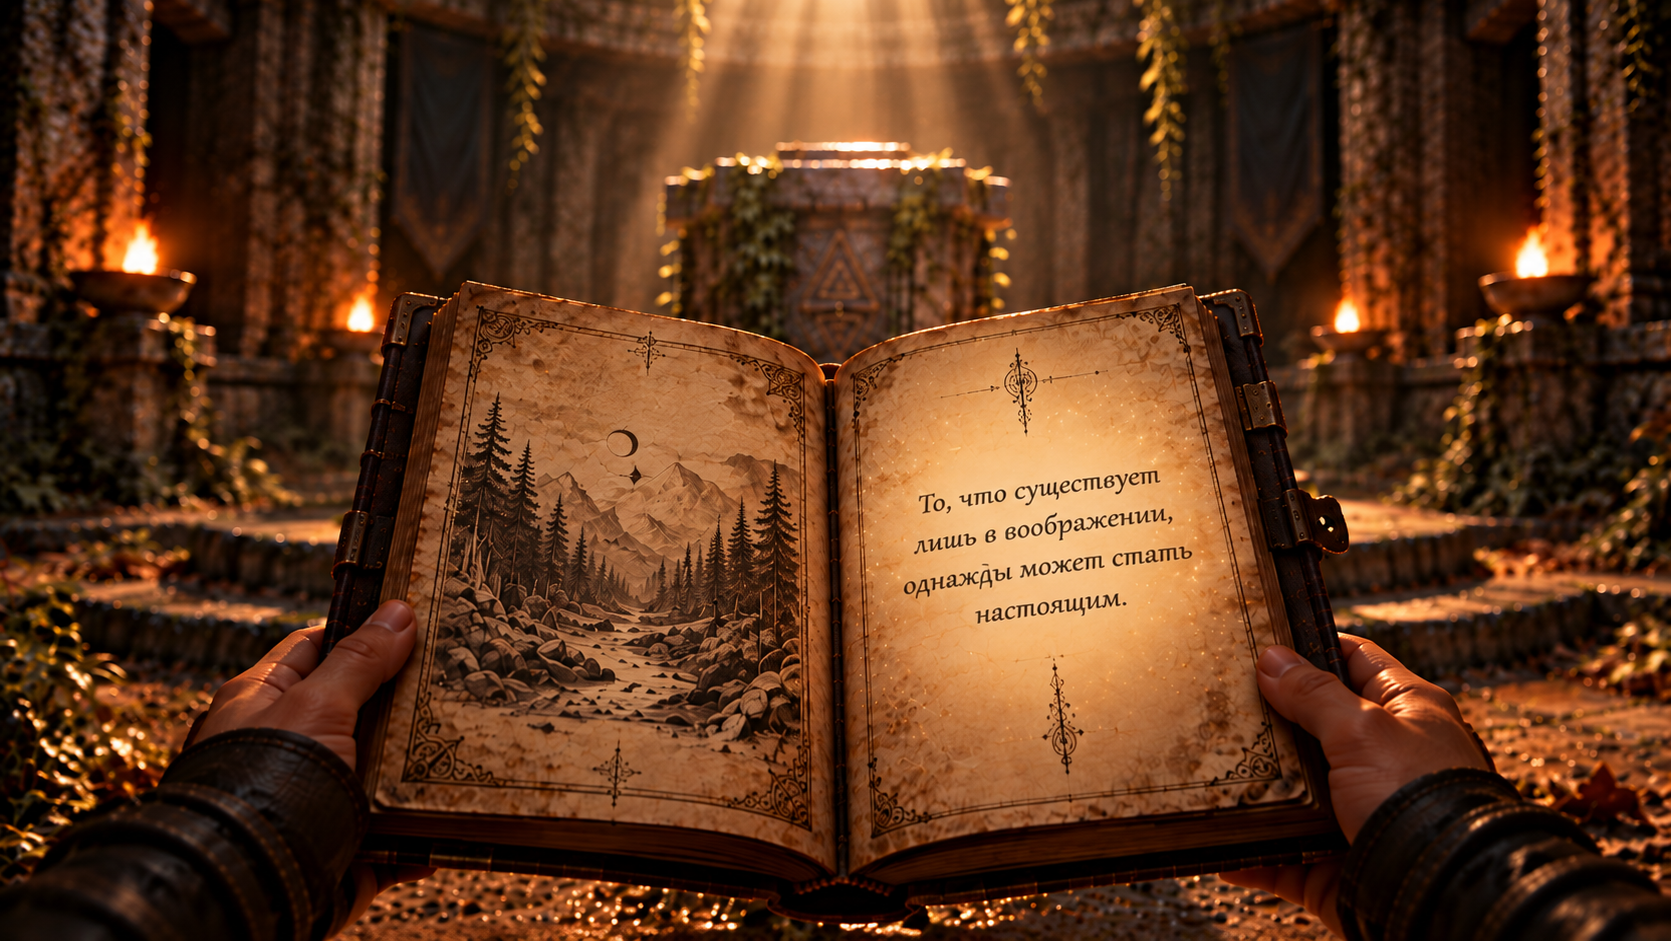
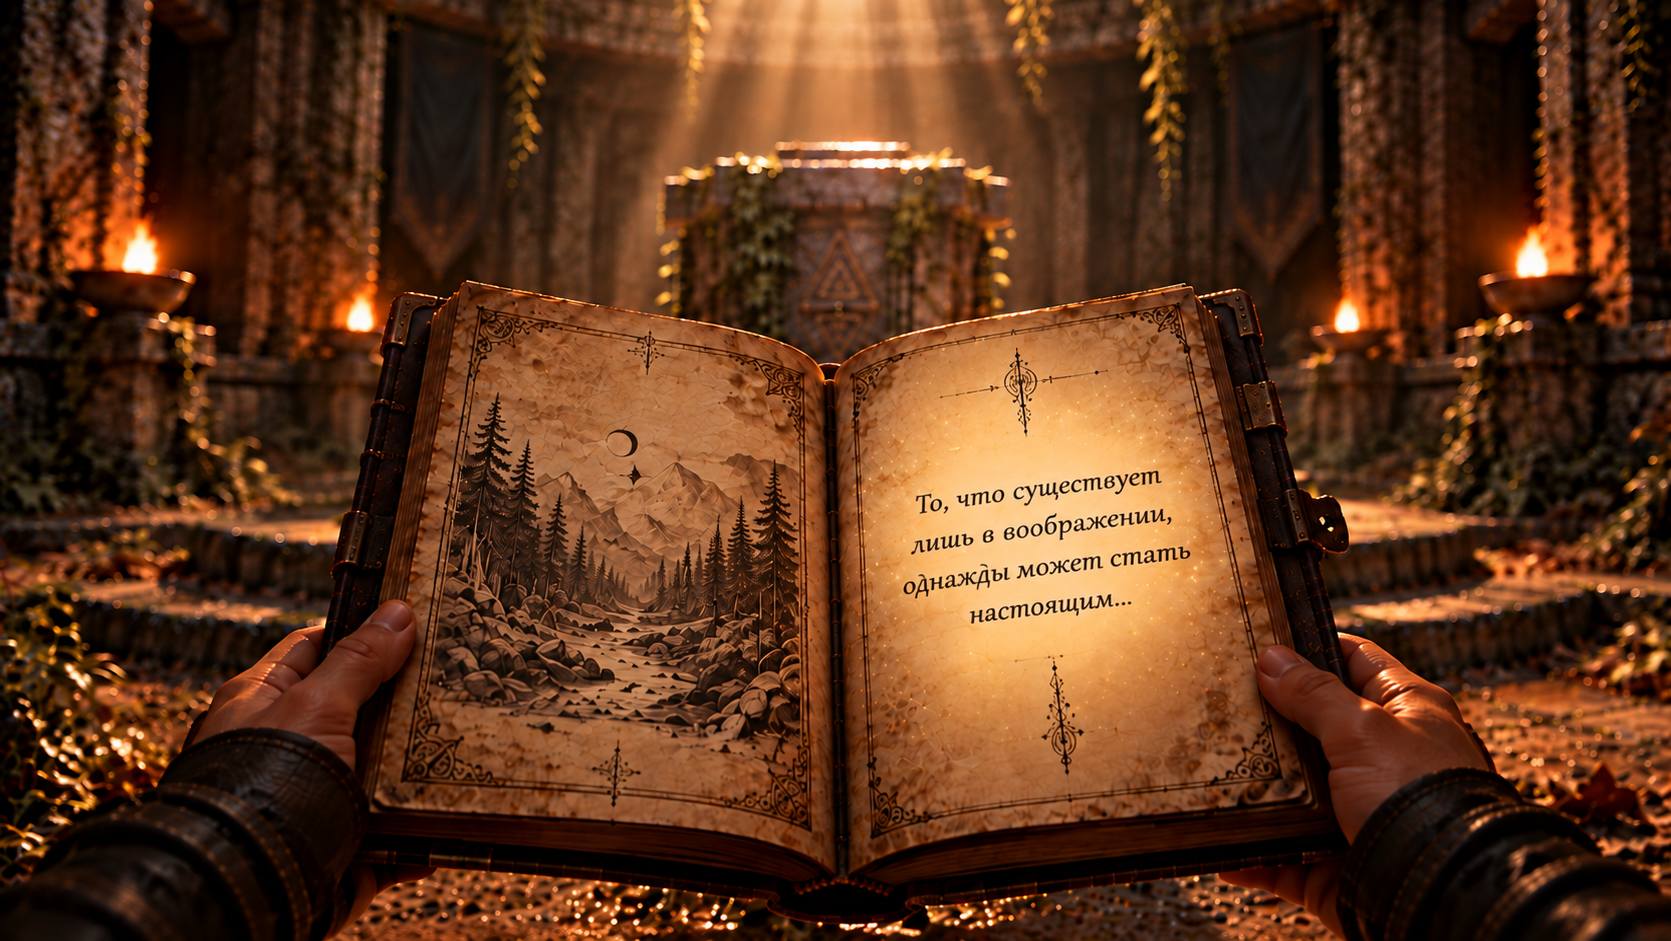
feat(final): fix scene flow

diff --git a/src/data/story/final.ts b/src/data/story/final.ts
@@ -171,24 +171,24 @@ export const finalChapter: ChapterData = {
       audio: audio.dragon,
       nextScene: "final-battle-3",
     },
-
     {
       id: "final-battle-3",
-      background: images.owlbearFire,
+      background: images.bookInHands,
       content: {
         type: "text",
-        text: "И ты вспоминаешь строку из книги:\n\nТо, что когда-то существовало лишь в воображении, однажды может стать настоящим...",
+        text: "Вдруг в твоей сумке что-то начинает светиться.",
       },
+      specialEffects: ["glow"],
       audio: audio.battleWithDragon,
       nextScene: "final-battle-4",
     },
 
     {
       id: "final-battle-4",
-      background: images.owlbearFire,
+      background: images.bookInHands,
       content: {
         type: "text",
-        text: "...и ожить в твоих руках.",
+        text: "Ты достаёшь книгу.\n\nОна сама раскрывается на той самой странице.",
       },
       audio: audio.battleWithDragon,
       nextScene: "final-battle-5",
@@ -196,10 +196,10 @@ export const finalChapter: ChapterData = {
 
     {
       id: "final-battle-5",
-      background: images.owlbearFire,
+      background: images.bookText,
       content: {
         type: "text",
-        text: "И ты понимаешь.\n\nВсё необходимое у тебя уже есть.",
+        text: "Там, где раньше фраза обрывалась, появились новые слова.",
       },
       audio: audio.battleWithDragon,
       nextScene: "final-battle-6",
@@ -207,27 +207,51 @@ export const finalChapter: ChapterData = {
 
     {
       id: "final-battle-6",
+      background: images.bookText,
+      content: {
+        type: "text",
+        text: "",
+      },
+      showBackgroundOnly: true,
+      autoTransitionToNextScene: true,
+      autoTransitionDelay: 5000,
+      audio: audio.battleWithDragon,
+      nextScene: "final-battle-7",
+    },
+    {
+      id: "final-battle-7",
+      background: images.owlbearFire,
+      content: {
+        type: "text",
+        text: "И ты понимаешь.\n\nВсё необходимое у тебя уже есть.",
+      },
+      audio: audio.battleWithDragon,
+      nextScene: "final-battle-8",
+    },
+
+    {
+      id: "final-battle-8",
       background: images.deviceAssembly,
       content: {
         type: "text",
         text: "Ты открываешь коробку.\n\nЛатунные пластины. Шестерни. Винты.\n\nВсе эти детали должны сложиться в одно целое.",
       },
       audio: audio.battleWithDragon,
-      nextScene: "final-battle-7",
+      nextScene: "final-battle-9",
     },
 
     {
-      id: "final-battle-7",
+      id: "final-battle-9",
       background: images.deviceAssembly,
       content: {
         type: "text",
         text: "Ты собираешь устройство под рёв дракона.\n\nСреди дыма и огня.",
       },
       audio: audio.battleWithDragon,
-      nextScene: "final-battle-8",
+      nextScene: "final-battle-10",
     },
     {
-      id: "final-battle-8",
+      id: "final-battle-10",
       background: images.device,
       content: {
         type: "text",
@@ -236,37 +260,15 @@ export const finalChapter: ChapterData = {
       // Механизм оживает так же, как ожили руны у стены.
       audio: audio.battleWithDragon,
       specialEffects: ["glow"],
-      nextScene: "final-battle-9",
-    },
-
-    {
-      id: "final-battle-9",
-      background: images.deviceFliesAway,
-      content: {
-        type: "text",
-        text: "Ты осторожно подбрасываешь его в воздух.\n\nОн раскрывает крылья и исчезает в густом дыму.",
-      },
-      audio: audio.battleWithDragon,
-      nextScene: "final-battle-10",
-    },
-
-    {
-      id: "final-battle-10",
-      background: images.deviceFliesAway,
-      content: {
-        type: "text",
-        text: "Ты ждёшь.\n\nСекунда. Другая.\n\nТолько огонь, дым и рёв дракона.",
-      },
-      audio: audio.battleWithDragon,
       nextScene: "final-battle-11",
     },
 
     {
       id: "final-battle-11",
-      background: images.owlbearFound,
+      background: images.deviceFliesAway,
       content: {
         type: "text",
-        text: "И вдруг — в глубине поля боя появляется маленький огонёк.",
+        text: "Ты осторожно подбрасываешь его в воздух.\n\nОн раскрывает крылья и исчезает в густом дыму.",
       },
       audio: audio.battleWithDragon,
       nextScene: "final-battle-12",
@@ -274,10 +276,10 @@ export const finalChapter: ChapterData = {
 
     {
       id: "final-battle-12",
-      background: images.owlbearFound,
+      background: images.deviceFliesAway,
       content: {
         type: "text",
-        text: "MI-01 нашёл его.\n\nМедвесыч там.",
+        text: "Ты ждёшь.\n\nСекунда. Другая.\n\nТолько огонь, дым и рёв дракона.",
       },
       audio: audio.battleWithDragon,
       nextScene: "final-battle-13",
@@ -285,6 +287,28 @@ export const finalChapter: ChapterData = {
 
     {
       id: "final-battle-13",
+      background: images.owlbearFound,
+      content: {
+        type: "text",
+        text: "И вдруг — в глубине поля боя появляется маленький огонёк.",
+      },
+      audio: audio.battleWithDragon,
+      nextScene: "final-battle-14",
+    },
+
+    {
+      id: "final-battle-14",
+      background: images.owlbearFound,
+      content: {
+        type: "text",
+        text: "MI-01 нашёл его.\n\nМедвесыч там.",
+      },
+      audio: audio.battleWithDragon,
+      nextScene: "final-battle-15",
+    },
+
+    {
+      id: "final-battle-15",
       background: images.owlbearFound,
       content: {
         type: "text",

diff --git a/src/data/story/first-chapter.ts b/src/data/story/first-chapter.ts
@@ -426,12 +426,13 @@ export const firstChapter: ChapterData = {
 
     {
       id: "chapter1-relic-4",
-      background: images.bookText,
+      background: images.bookOpen,
       content: {
         type: "text",
         text: "Книга начинает светиться и на странице проступает надпись.",
       },
       audio: audio.room,
+      specialEffects: ["glow"],
       nextScene: "chapter1-relic-5",
     },
 
@@ -446,6 +447,19 @@ export const firstChapter: ChapterData = {
       audio: audio.room,
       showBackgroundOnly: true,
       autoTransitionDelay: 3000,
+      autoTransitionToNextScene: true,
+      nextScene: "chapter1-relic-6",
+    },
+
+    {
+      id: "chapter1-relic-6",
+      background: images.bookText,
+      content: {
+        type: "text",
+        text: "Кажется, последние слова фразы потерялись...",
+      },
+      audio: audio.room,
+      autoTransitionDelay: 4300,
       autoTransitionToNextScene: true,
       nextScene: "chapter1-sound",
     },

diff --git a/src/components/layout/scene-effects.tsx b/src/components/layout/scene-effects.tsx
@@ -402,8 +402,8 @@ export function SceneEffects({
                 "linear-gradient(75deg, transparent, rgba(255,235,190,0.35), transparent)",
               transform: "rotate(8deg)",
             }}
-            initial={{ x: "-120%" }}
-            animate={{ x: "220%" }}
+            initial={{ x: "-100vw" }}
+            animate={{ x: "100vw" }}
             transition={{
               delay: delaySeconds,
               duration: 2.2,

diff --git a/src/data/images/final.ts b/src/data/images/final.ts
@@ -4,6 +4,8 @@ export const images = {
   dragon: "/images/final/dragon-2.png",
   owlbear: "/images/final/owlbear-2.png",
   owlbearFire: "/images/final/owlbear-fire.png",
+  bookInHands: "/images/final/book-in-hands.png",
+  bookText: "/images/final/book-text.png",
   deviceAssembly: "/images/final/device-assembly.png",
   device: "/images/final/device.png",
   deviceFliesAway: "/images/final/device-flies-away.png",

diff --git a/src/store/game-store.ts b/src/store/game-store.ts
@@ -40,8 +40,7 @@ export const useGameStore = create<GameState>()(
 
     // currentSceneId: "chapter2-transition-back-3",
     // currentSceneId: "final-victory",
-    currentSceneId: "final-thread-10",
-    // currentSceneId: "final-companion-2",
+    currentSceneId: "final-battle-2",
 
     inventory: [],
 
